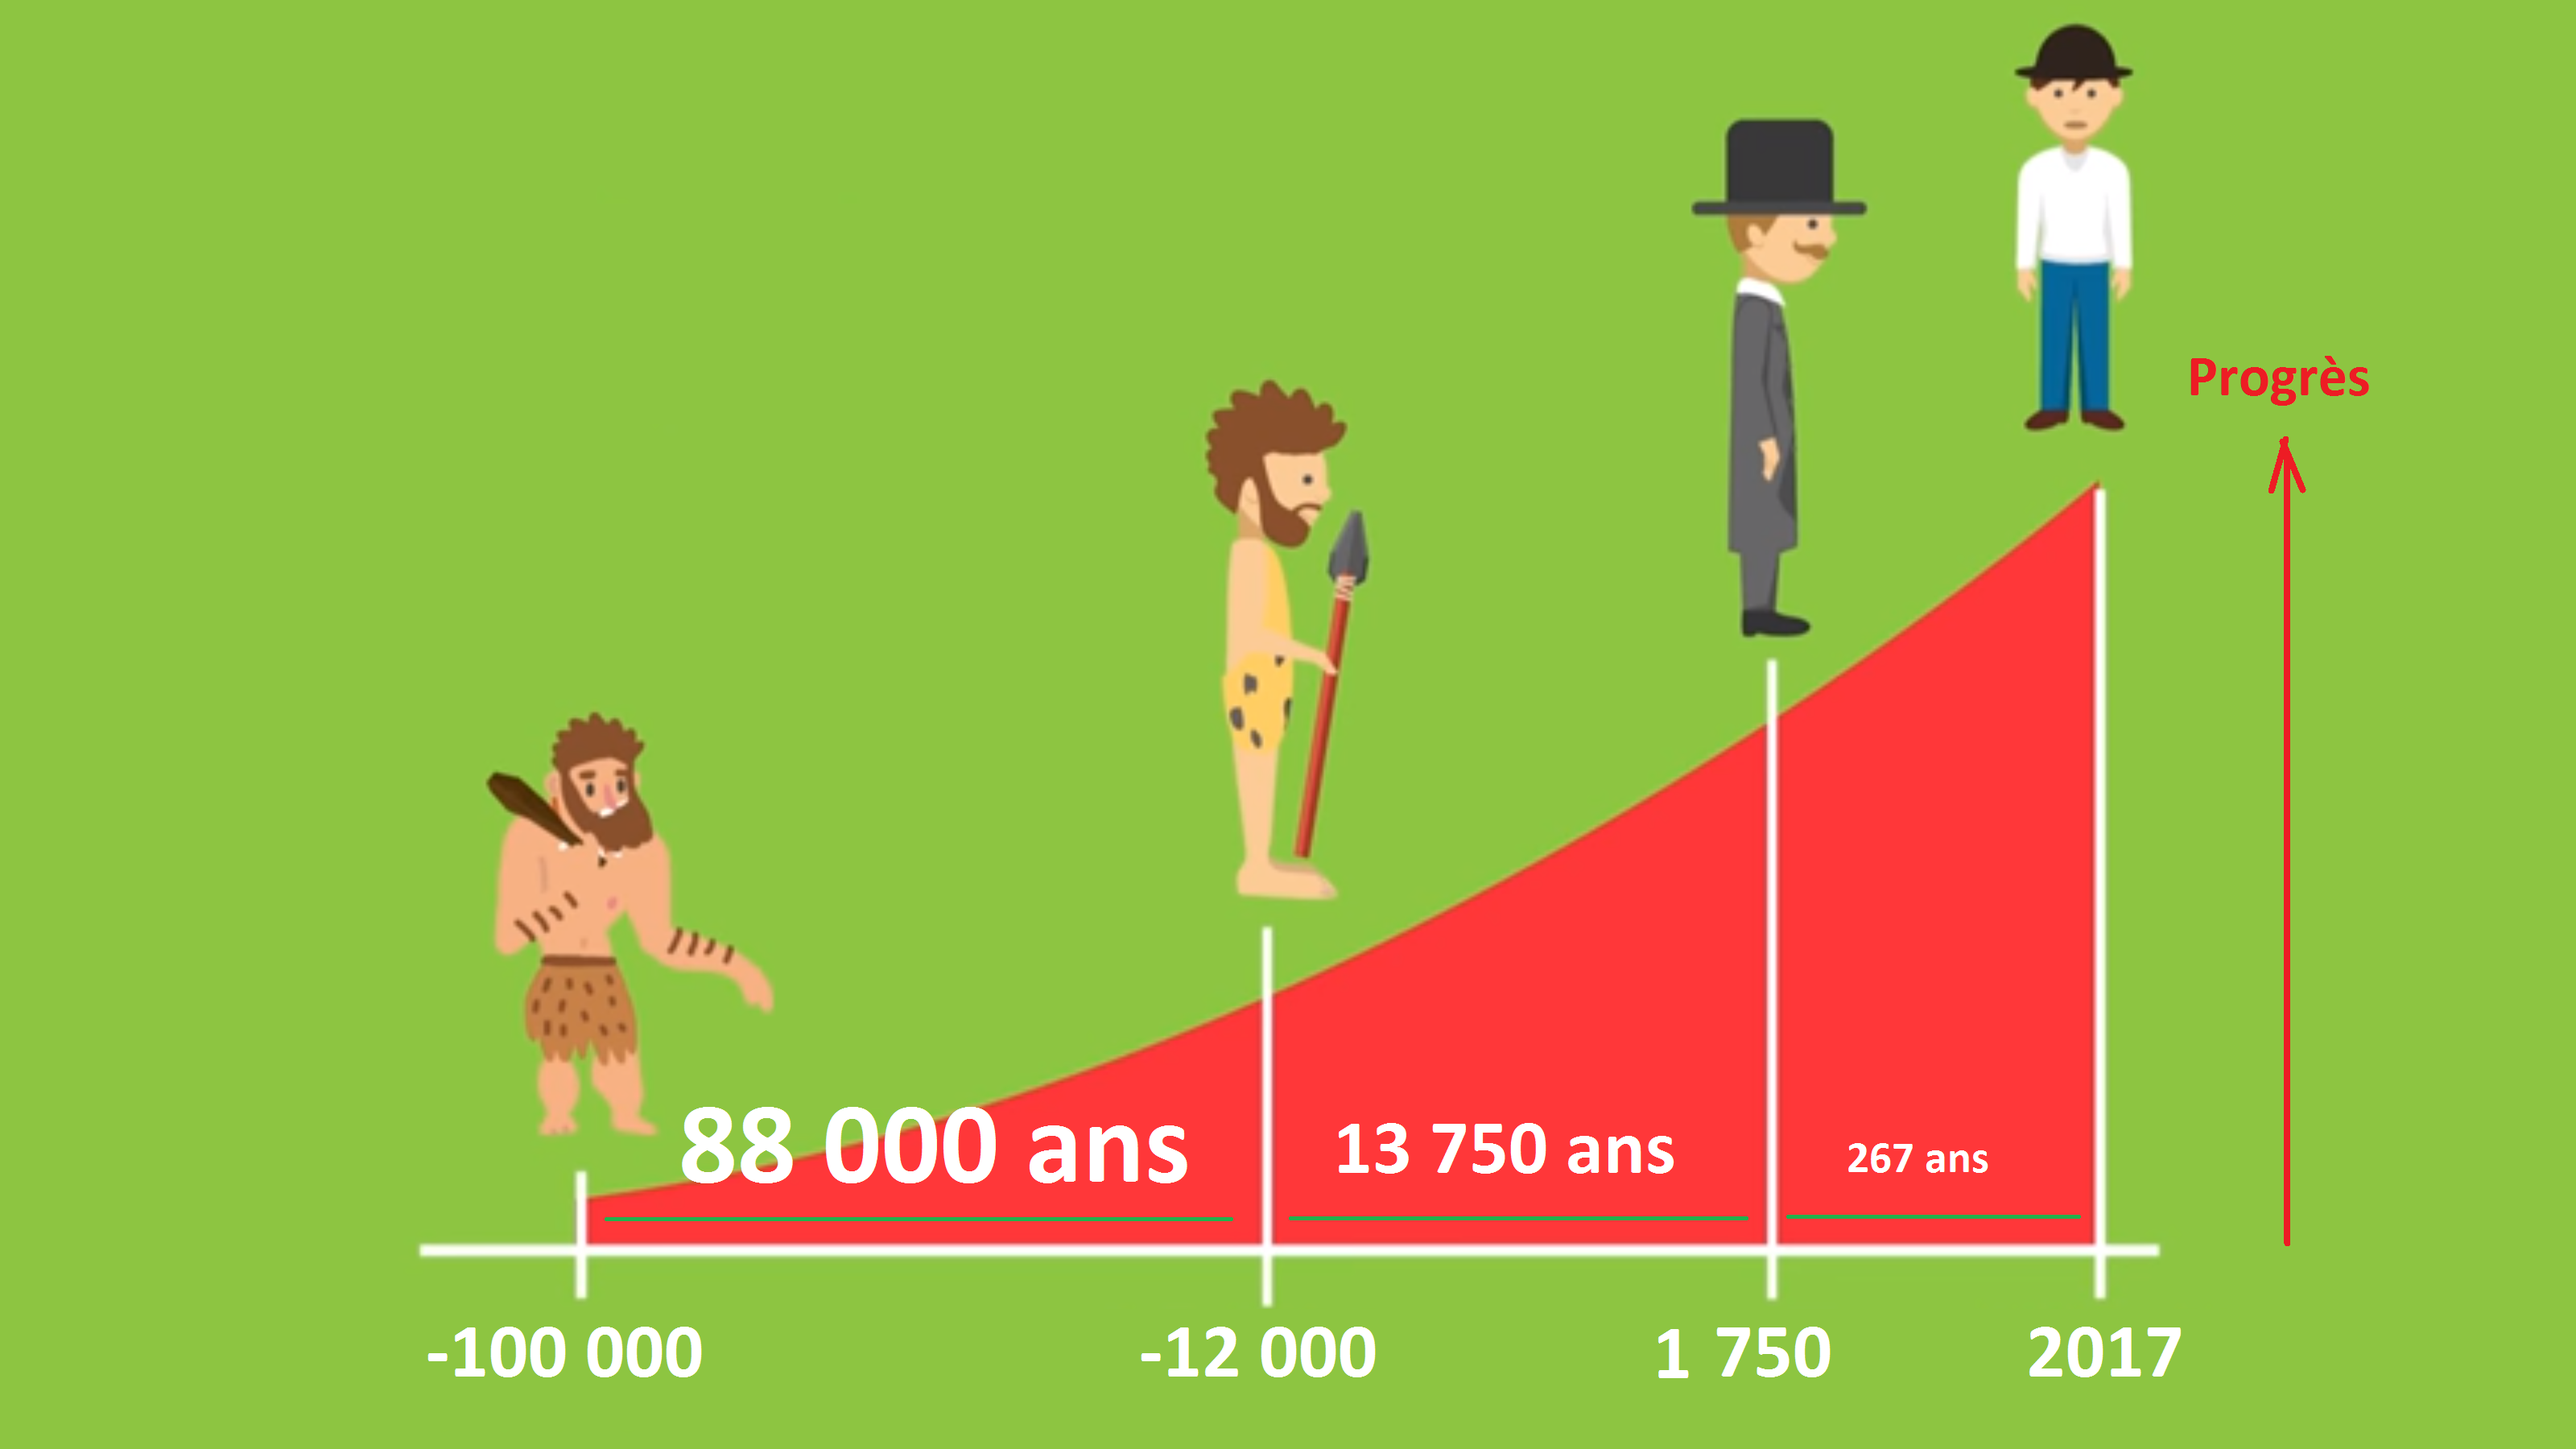
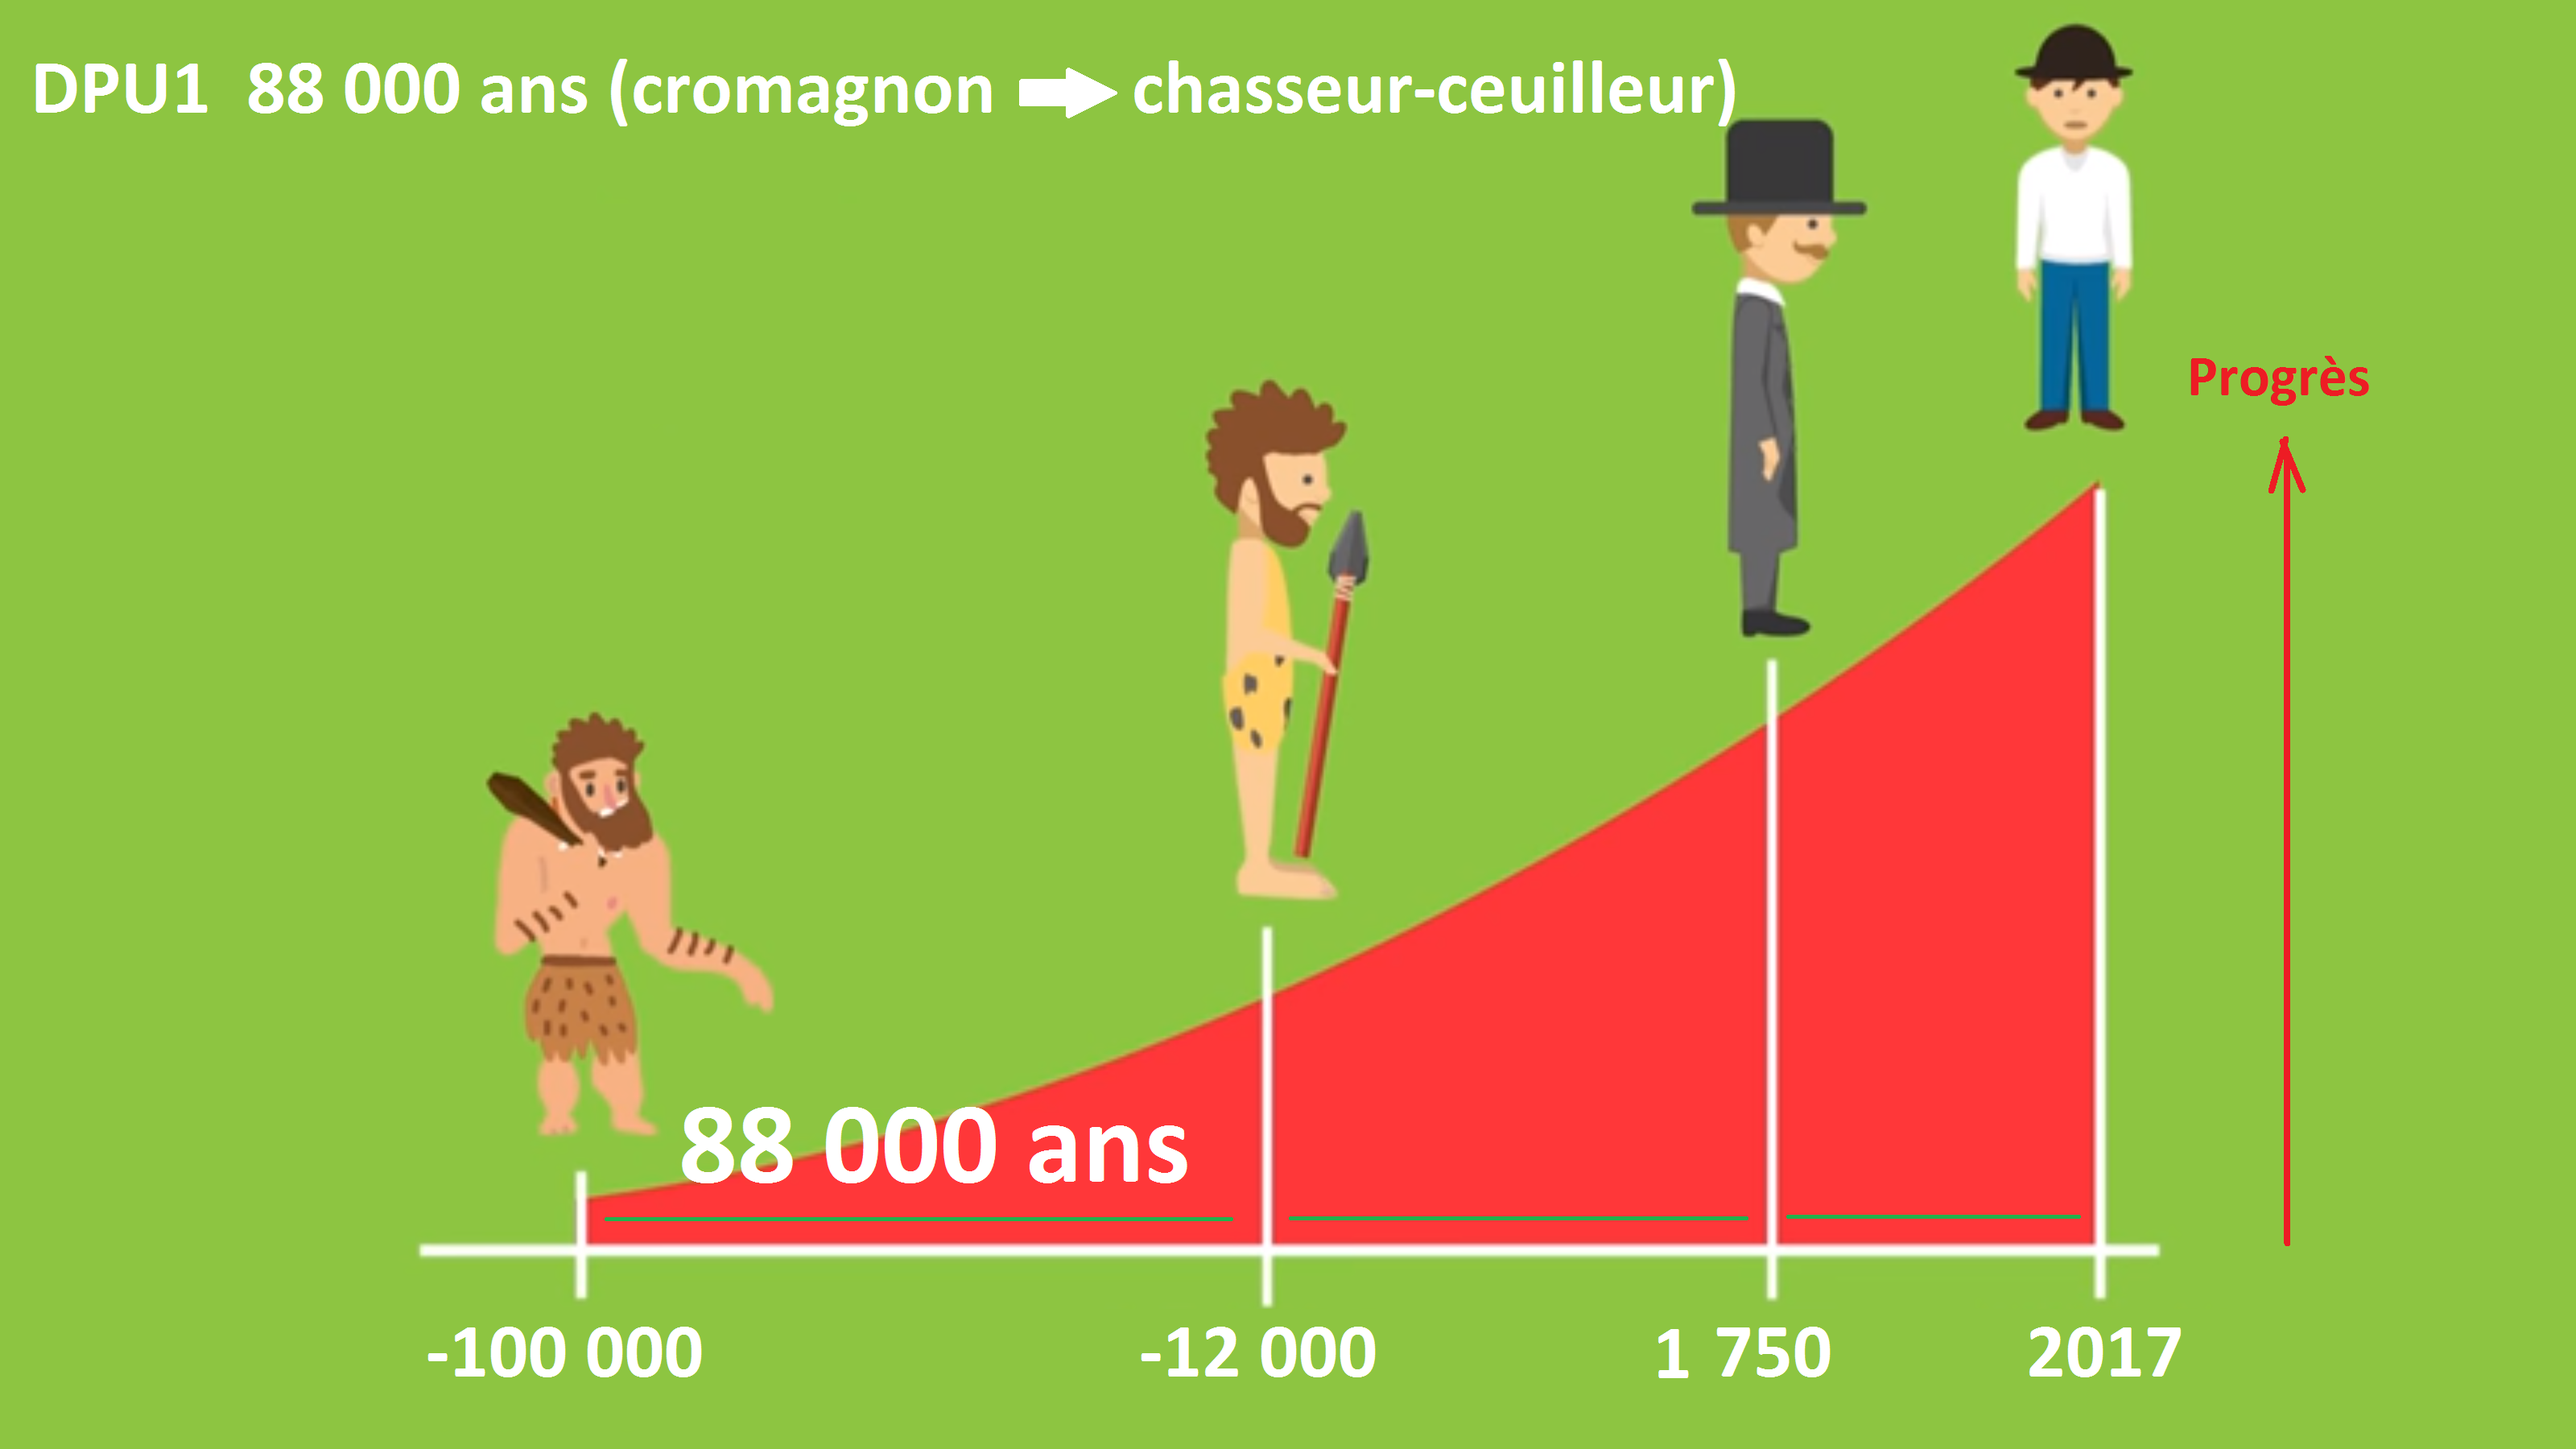
test

Changed region(s): [[0.0, 0.0311, 0.6875, 0.0933], [0.5, 0.7778, 0.6562, 0.8089], [0.7188, 0.7778, 0.7812, 0.8089]]

diff --git a/PITCHME.md b/PITCHME.md
@@ -49,10 +49,10 @@ Raymond Kurzweil:
 ---?image=00illustrations/graph1.png
 ####  Loi du retour accéléré
 
-- Ça fait quoi d'être <span style="color:red">là?</span><br>Ça ressemble à un endroit assez intense...
+- Ça fait quoi d'être <span style="color:red">là?</span><br>Ça ressemble à un endroit assez intense non?
 
 <p class="fragment">
-  <br><br>_mais en réalité non, sur une ligne du temps on ne voit pas ce qu'il y a droite de notre temps_
+  <br><br>_eh bien non, sur une ligne du temps on ne voit pas ce qu'il y a droite de notre temps_
 </p>
 
 
@@ -82,11 +82,11 @@ Raymond Kurzweil:
 
 Ce choque est l'unité de mesure qui sert à calculer la **loi du retour accéléré**.
 
-- DPU (Die Progress Unit): Quantité de temps nécéssaire à l'humanité pour accomplir suffisament de progrès pour que le choque que subirait une personne qui vient du passé soit suffisament violent pour qu'il puisse en mourir.
+- DPU (Die Progress Unit): Quantité de temps nécéssaire à l'humanité pour accomplir suffisament de progrès pour que le choque que subirait une personne qui vient du passé soit suffisant pour le tuer.
 
 ---?image=00illustrations/chart1.png
-
-
+---?image=00illustrations/chart2.png
+---?image=00illustrations/chart3.png
 
 
 
